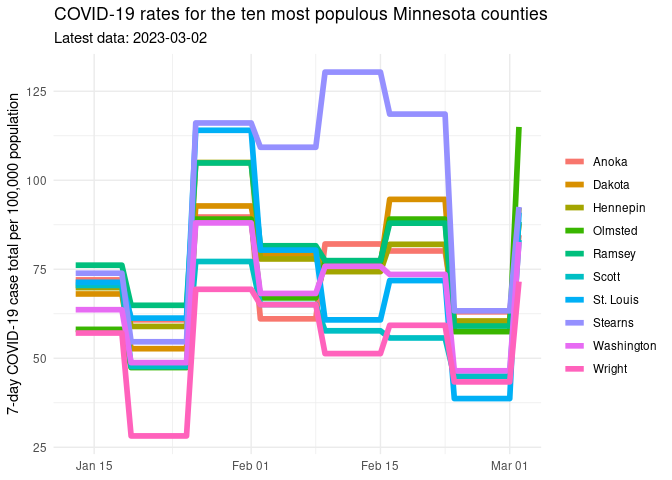
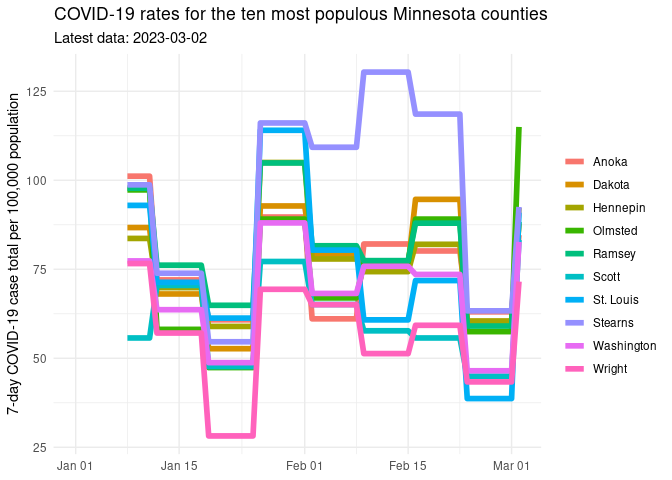
Updated report

diff --git a/README.md b/README.md
@@ -1,7 +1,7 @@
 Minnesota COVID Report
 ================
 
-Report last run: 2023-03-03 21:36:44
+Report last run: 2023-03-03 21:42:38
 
 ## Introduction
 
@@ -55,7 +55,7 @@ top10_pop <- pops %>% filter(state == "Minnesota") %>%
 rate_data %>%
     filter(state == "Minnesota", 
          county %in% top10_pop$county,
-         date > Sys.Date() - 50) %>%
+         date > Sys.Date() - 100) %>%
   ggplot(aes(x = date, y = rate_last, color = county)) +
   geom_line(linewidth = 2) +
   xlab(NULL) +
